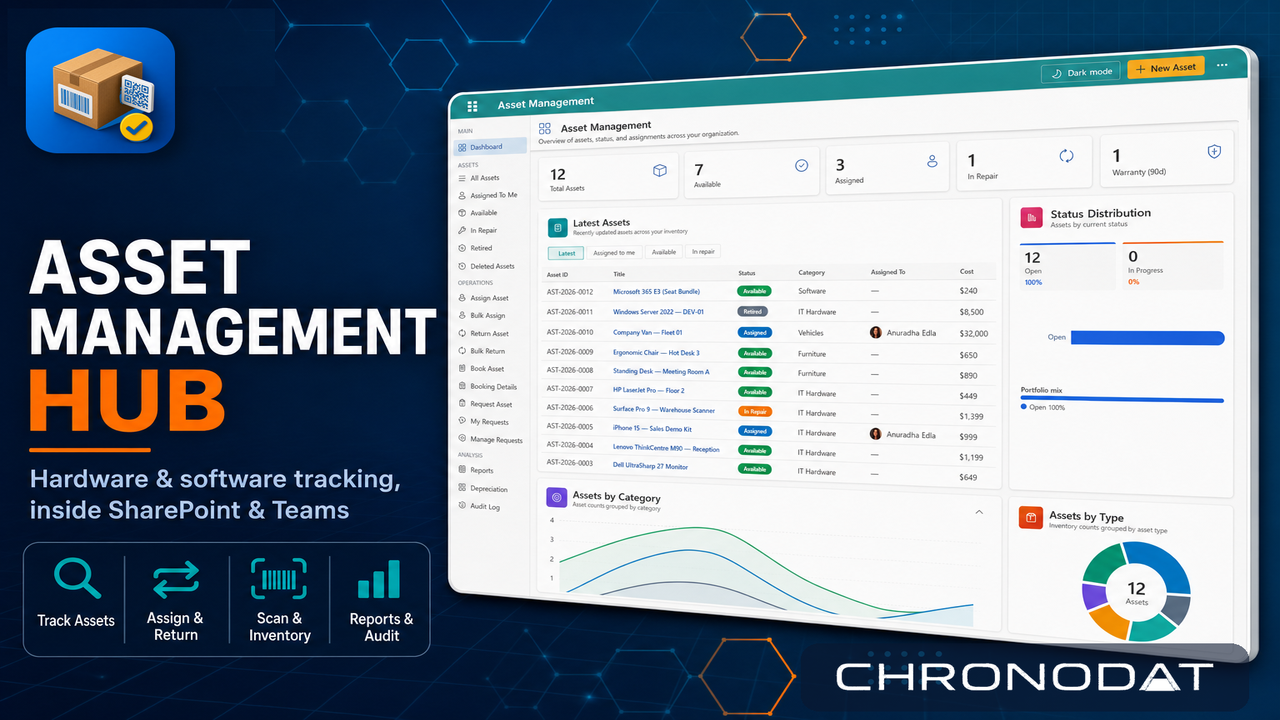
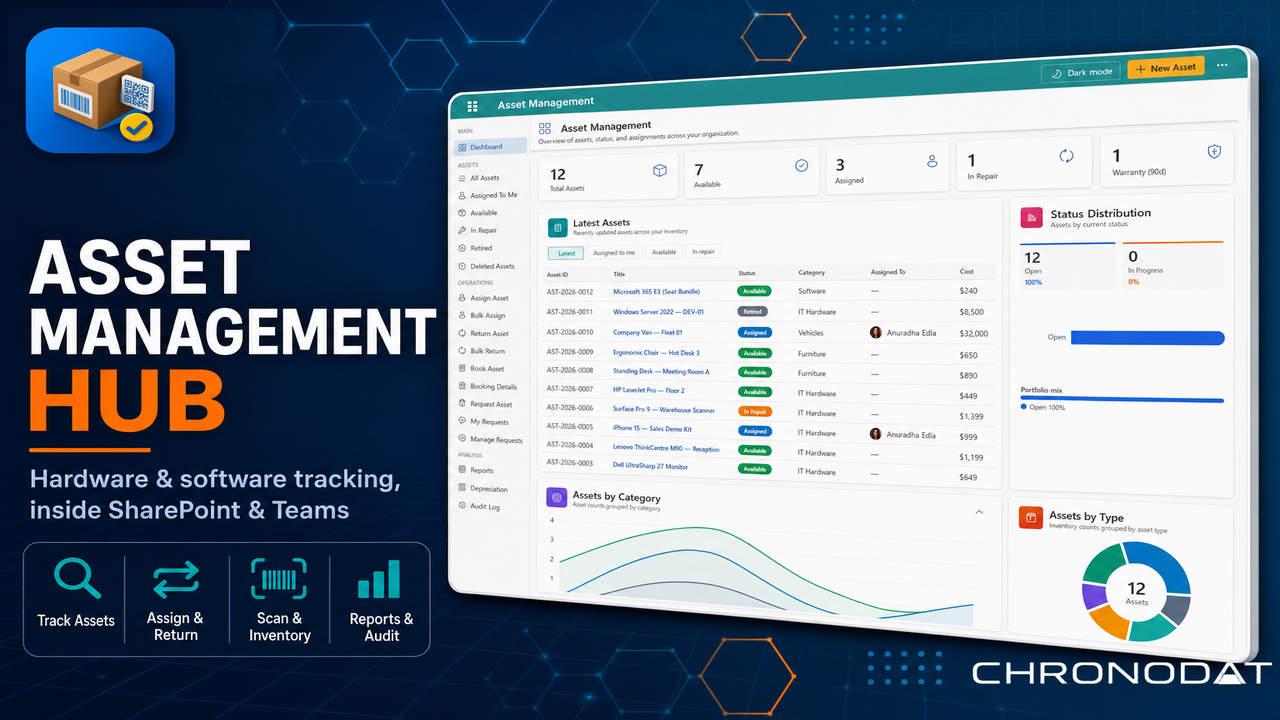
check-in raw

Changed region(s): [[0.6562, 0.8861, 1.0, 0.9778]]

diff --git a/scripts/build-presentation-video.py b/scripts/build-presentation-video.py
@@ -104,12 +104,13 @@ SEGMENTS = [
 # Falls back to Windows SAPI if edge-tts/network is unavailable.
 VOICE = "en-US-JennyNeural"
 SAPI_FALLBACK_VOICE = "Microsoft Zira Desktop"
-CROSSFADE = 0.4
+CROSSFADE = 0.7  # slide cross-dissolve duration (also used for audio acrossfade)
 WIDTH = 1920
 HEIGHT = 1080
 FPS = 30
-LEAD_IN = 0.35   # silence before narration so words don't clip during the incoming crossfade
-TAIL = 0.9       # breathing room after narration before the next slide
+LEAD_IN = 0.4    # silence before narration so words don't clip during the incoming crossfade
+TAIL = 1.0       # breathing room after narration before the next slide
+MUSIC_VOLUME = 0.22  # background music level before ducking (0 = silent)
 
 _EDGE_READY: bool | None = None
 
@@ -291,6 +292,114 @@ def make_segment(clip_path: Path, audio_path: Path, out_path: Path) -> None:
     )
 
 
+def generate_music(duration: float, out_wav: Path, *, sr: int = 48000, bar: float = 4.0,
+                   xfade: float = 0.7, gain: float = 0.8) -> None:
+    """Synthesize a soft, royalty-free ambient pad (I–V–vi–IV progression) of `duration`
+    seconds. Locally generated, so there are no music licensing concerns."""
+    import numpy as np
+    import wave
+
+    # Triads (+ a sub-octave root) for C major: C – G – Am – F.
+    progression = [
+        [130.81, 261.63, 329.63, 392.00],
+        [98.00, 196.00, 246.94, 293.66],
+        [110.00, 220.00, 261.63, 329.63],
+        [87.31, 174.61, 220.00, 261.63],
+    ]
+
+    total_n = int((duration + bar) * sr)
+    left = np.zeros(total_n, dtype=np.float64)
+    right = np.zeros(total_n, dtype=np.float64)
+
+    seg_len = bar + xfade
+    seg_n = int(seg_len * sr)
+    t = np.arange(seg_n) / sr
+
+    # Constant-power window: cosine ramp on the two edges, flat sustain in the middle.
+    win = np.ones(seg_n)
+    f = int(xfade * sr)
+    if f > 0:
+        ramp = 0.5 * (1 - np.cos(np.linspace(0, np.pi, f)))
+        win[:f] = ramp
+        win[-f:] = ramp[::-1]
+
+    lfo = 1.0 + 0.08 * np.sin(2 * np.pi * 0.13 * t)  # gentle tremolo
+
+    start = 0
+    k = 0
+    while start < int(duration * sr):
+        chord = progression[k % len(progression)]
+        sig_l = np.zeros(seg_n)
+        sig_r = np.zeros(seg_n)
+        for j, freq in enumerate(chord):
+            amp = 0.7 if j == 0 else 1.0  # sub-octave slightly quieter
+            sig_l += amp * np.sin(2 * np.pi * freq * t)
+            sig_r += amp * np.sin(2 * np.pi * (freq * 1.003) * t)  # detune for stereo width
+        sig_l = sig_l / len(chord) * lfo * win
+        sig_r = sig_r / len(chord) * lfo * win
+        end = min(start + seg_n, total_n)
+        left[start:end] += sig_l[: end - start]
+        right[start:end] += sig_r[: end - start]
+        start += int(bar * sr)
+        k += 1
+
+    n = int(duration * sr)
+    L = left[:n]
+    R = right[:n]
+    peak = max(np.max(np.abs(L)), np.max(np.abs(R)), 1e-6)
+    L = L / peak * gain
+    R = R / peak * gain
+
+    fi = min(int(2.0 * sr), n)
+    fo = min(int(3.0 * sr), n)
+    L[:fi] *= np.linspace(0, 1, fi)
+    R[:fi] *= np.linspace(0, 1, fi)
+    L[-fo:] *= np.linspace(1, 0, fo)
+    R[-fo:] *= np.linspace(1, 0, fo)
+
+    stereo = np.stack([L, R], axis=1)
+    data = (np.clip(stereo, -1, 1) * 32767).astype("<i2")
+    with wave.open(str(out_wav), "w") as w:
+        w.setnchannels(2)
+        w.setsampwidth(2)
+        w.setframerate(sr)
+        w.writeframes(data.tobytes())
+
+
+def mix_music(video_in: Path, music_wav: Path, out_path: Path, *, volume: float,
+              total: float) -> None:
+    """Mix the music bed under the narration, ducking it when the voice is present."""
+    fade_out_start = max(0.0, total - 3.0)
+    filt = (
+        f"[1:a]volume={volume},afade=t=in:d=2,afade=t=out:st={fade_out_start:.2f}:d=3[mus];"
+        f"[mus][0:a]sidechaincompress=threshold=0.02:ratio=6:attack=15:release=350[duck];"
+        f"[0:a][duck]amix=inputs=2:duration=first:normalize=0[mix]"
+    )
+    run(
+        [
+            FFMPEG,
+            "-y",
+            "-i",
+            str(video_in),
+            "-i",
+            str(music_wav),
+            "-filter_complex",
+            filt,
+            "-map",
+            "0:v",
+            "-map",
+            "[mix]",
+            "-c:v",
+            "copy",
+            "-c:a",
+            "aac",
+            "-b:a",
+            "192k",
+            str(out_path),
+        ]
+    )
+
+
 def combine_segments(segments: list[Path], durations: list[float], out_path: Path) -> None:
     """Chain per-segment mp4s with video xfade AND audio acrossfade (kept in sync)."""
     if len(segments) == 1:
@@ -345,7 +454,7 @@ def combine_segments(segments: list[Path], durations: list[float], out_path: Pat
     )
 
 
-async def build(*, skip_tts: bool = False) -> Path:
+async def build(*, skip_tts: bool = False, music_volume: float = MUSIC_VOLUME) -> Path:
     OUT_DIR.mkdir(parents=True, exist_ok=True)
     work = Path(tempfile.mkdtemp(prefix="amh-video-", dir=OUT_DIR))
 
@@ -399,12 +508,24 @@ async def build(*, skip_tts: bool = False) -> Path:
             print(f"  [{i + 1}/{len(SEGMENTS)}] {seg['id']}: {seg_duration:.1f}s — {seg['slide']}")
 
         final = OUT_DIR / "asset-management-hub-90s.mp4"
-        combine_segments(segment_files, durations, final)
-
         total = sum(durations) - CROSSFADE * (len(durations) - 1)
+
+        if music_volume > 0:
+            narrated = work / "narrated.mp4"
+            combine_segments(segment_files, durations, narrated)
+            music_wav = work / "music.wav"
+            generate_music(total, music_wav)
+            mix_music(narrated, music_wav, final, volume=music_volume, total=total)
+        else:
+            combine_segments(segment_files, durations, final)
+
         voice_used = "silent" if skip_tts else (VOICE if edge_available() else SAPI_FALLBACK_VOICE)
+        music_note = f"music @ {music_volume:.2f}" if music_volume > 0 else "no music"
         print(f"\nVideo: {final}")
-        print(f"Duration: ~{total:.1f}s | {WIDTH}x{HEIGHT} @ {FPS}fps | voice: {voice_used}")
+        print(
+            f"Duration: ~{total:.1f}s | {WIDTH}x{HEIGHT} @ {FPS}fps | "
+            f"{CROSSFADE:.1f}s transitions | voice: {voice_used} | {music_note}"
+        )
 
         # clean intermediates on success (kept on failure for debugging)
         shutil.rmtree(work, ignore_errors=True)
@@ -423,10 +544,18 @@ def main() -> None:
         default=VOICE,
         help="edge-tts neural voice (e.g. en-US-JennyNeural, en-US-GuyNeural, en-US-AriaNeural)",
     )
+    parser.add_argument(
+        "--music-volume",
+        type=float,
+        default=MUSIC_VOLUME,
+        help="Background music level before ducking (0 disables music)",
+    )
+    parser.add_argument("--no-music", action="store_true", help="Disable background music")
     args = parser.parse_args()
     VOICE = args.voice
+    music_volume = 0.0 if args.no_music else args.music_volume
     print("Building 90-second presentation video...")
-    asyncio.run(build(skip_tts=args.skip_tts))
+    asyncio.run(build(skip_tts=args.skip_tts, music_volume=music_volume))
 
 
 if __name__ == "__main__":

diff --git a/docs/presentation/90-second-video-script.md b/docs/presentation/90-second-video-script.md
@@ -13,9 +13,9 @@
 | Item | Guidance |
 |------|----------|
 | Format | 1920×1080, 16:9, 30 fps |
-| Music | Light corporate underscore; duck −12 dB under voice |
+| Music | Soft ambient pad, synthesized locally (royalty-free), auto-ducked under the voice; level via `--music-volume`, off via `--no-music` |
 | Voice | Clear, warm B2B narrator (male or female) |
-| Transitions | 0.4 s cross-dissolve between slides |
+| Transitions | 0.7 s cross-dissolve between slides (video + audio cross-faded together) |
 | Logo | Composit Chronodat wordmark after AI generation (`embed-marketing-chronodat-logo.py`) |
 | Product name | Always **Asset Management Hub** (never "Asset Management" alone) |
 | Platforms | **SharePoint Online** and **Microsoft Teams** only |
@@ -203,17 +203,18 @@ After branded slides exist in `assets/website/presentation/`:
 npm run assets:presentation-video
 ```
 
-Output: `assets/website/presentation/video/asset-management-hub-90s.mp4` (1920×1080, 30 fps, ~94 s).
+Output: `assets/website/presentation/video/asset-management-hub-90s.mp4` (1920×1080, 30 fps, ~122 s).
 
 The build script (`scripts/build-presentation-video.py`) assembles the eight slides from
-the timing table above with 0.4 s cross-dissolves and narrates the script with a **natural
-neural voice** (`en-US-JennyNeural` via `edge-tts`). If the neural voice can't be reached
-(offline/proxy), it automatically falls back to the Windows SAPI voice (Microsoft Zira).
+the timing table above with 0.7 s cross-dissolves, narrates the script with a **natural
+neural voice** (`en-US-JennyNeural` via `edge-tts`), and lays a **soft ambient music bed**
+underneath that automatically ducks when the voice is speaking. If the neural voice can't
+be reached (offline/proxy), it falls back to the Windows SAPI voice (Microsoft Zira).
 
 **One-time dependencies:**
 
 ```powershell
-pip install edge-tts truststore imageio-ffmpeg pillow
+pip install edge-tts truststore imageio-ffmpeg pillow numpy
 ```
 
 `truststore` lets Python use the OS certificate store, which fixes the corporate-proxy
@@ -224,6 +225,13 @@ Pick a different narrator:
 ```powershell
 python scripts/build-presentation-video.py --voice en-US-GuyNeural
 # other good options: en-US-AriaNeural, en-US-AndrewMultilingualNeural
+```
+
+Adjust or disable the background music:
+
+```powershell
+python scripts/build-presentation-video.py --music-volume 0.3   # louder bed
+python scripts/build-presentation-video.py --no-music           # no music
 ```
 
 Optional silent version (slides only, no voiceover):

diff --git a/docs/presentation/video-production-guide.md b/docs/presentation/video-production-guide.md
@@ -41,12 +41,13 @@ Each numbered step has a dedicated reference doc / script:
 ## One-time setup
 
 ```powershell
-pip install pillow imageio-ffmpeg edge-tts truststore
+pip install pillow imageio-ffmpeg edge-tts truststore numpy
 ```
 
 - **pillow** — image compositing (slides + thumbnail).
 - **imageio-ffmpeg** — bundles an `ffmpeg` binary, so no separate install is needed.
 - **edge-tts** — Microsoft neural voices (natural narration).
+- **numpy** — synthesizes the royalty-free ambient music bed.
 - **truststore** — lets Python use the OS certificate store; fixes the corporate-proxy
   SSL error edge-tts otherwise throws. If the neural voice still can't be reached, the
   build automatically falls back to the local Windows SAPI voice.
@@ -136,12 +137,16 @@ npm run assets:presentation-video     # -> assets/website/presentation/video/<ap
 - Narrates each segment with a **natural neural voice** (`en-US-JennyNeural` by default).
 - **Never time-stretches the voice** — each slide expands to fit its natural narration
   (with a short lead-in and tail), so nothing sounds sped-up.
-- Cross-dissolves video **and** cross-fades audio together (0.4 s) so A/V stays in sync.
+- Cross-dissolves video **and** cross-fades audio together (0.7 s) so A/V stays in sync.
+- Lays a **soft ambient music bed** (synthesized locally with numpy — royalty-free) that
+  automatically **ducks** under the voice via sidechain compression.
 
 Options:
 
 ```powershell
 python scripts/build-presentation-video.py --voice en-US-GuyNeural   # different narrator
+python scripts/build-presentation-video.py --music-volume 0.3        # louder music bed
+python scripts/build-presentation-video.py --no-music                # no music
 python scripts/build-presentation-video.py --skip-tts                # silent (slides only)
 ```
 